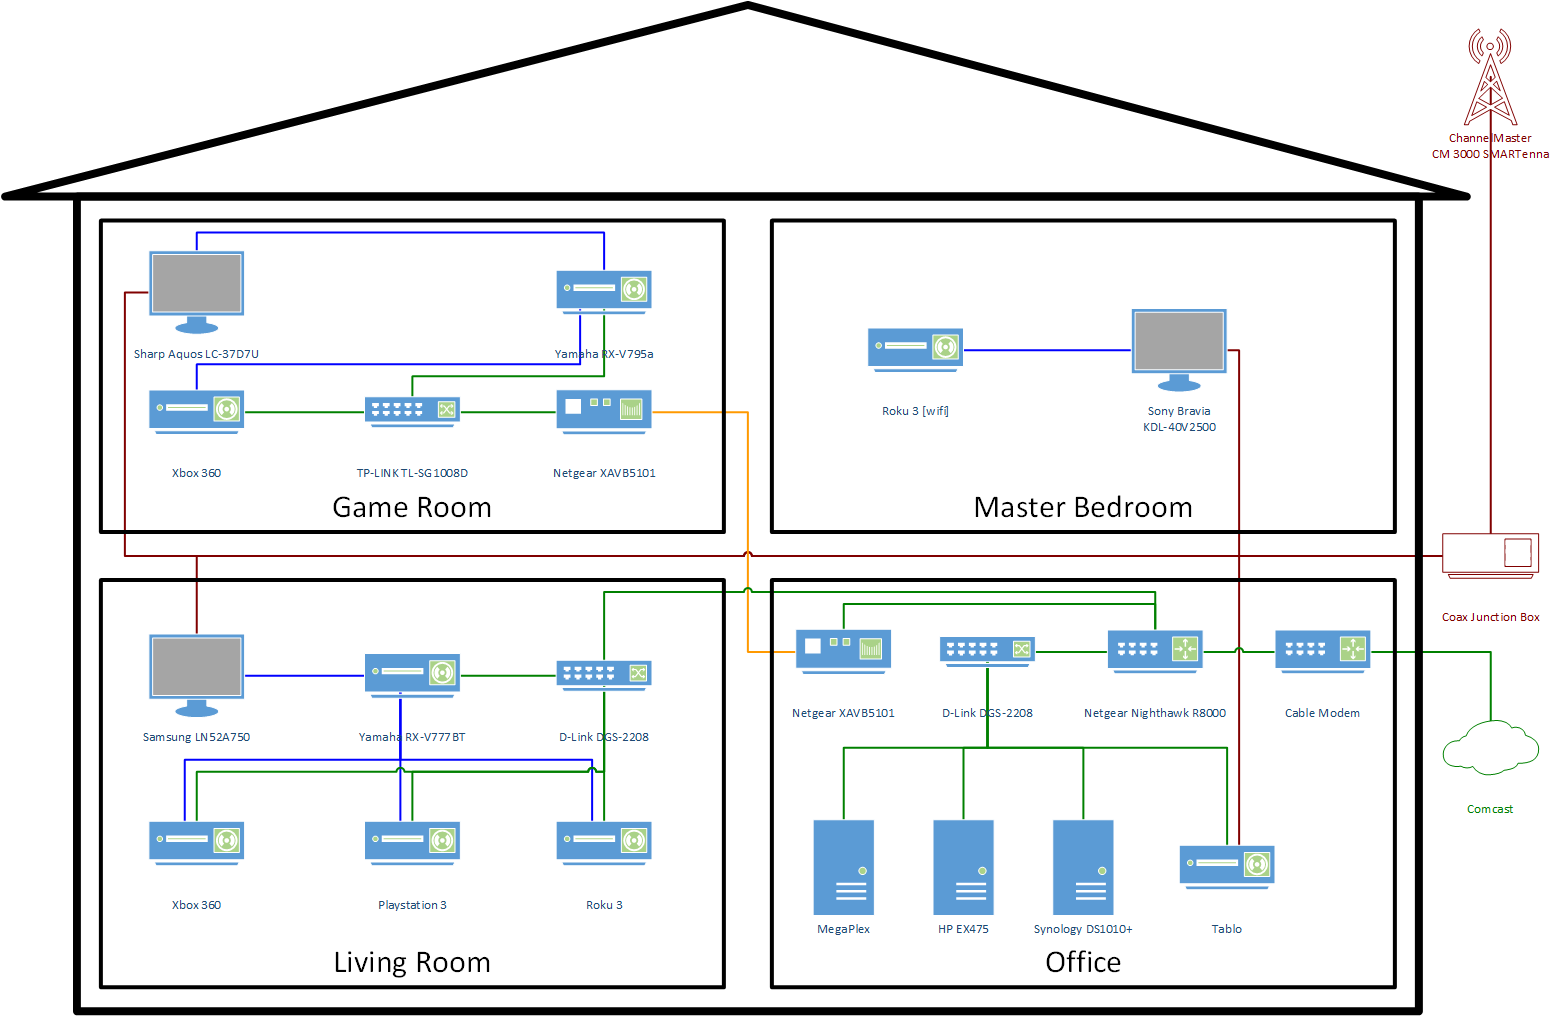
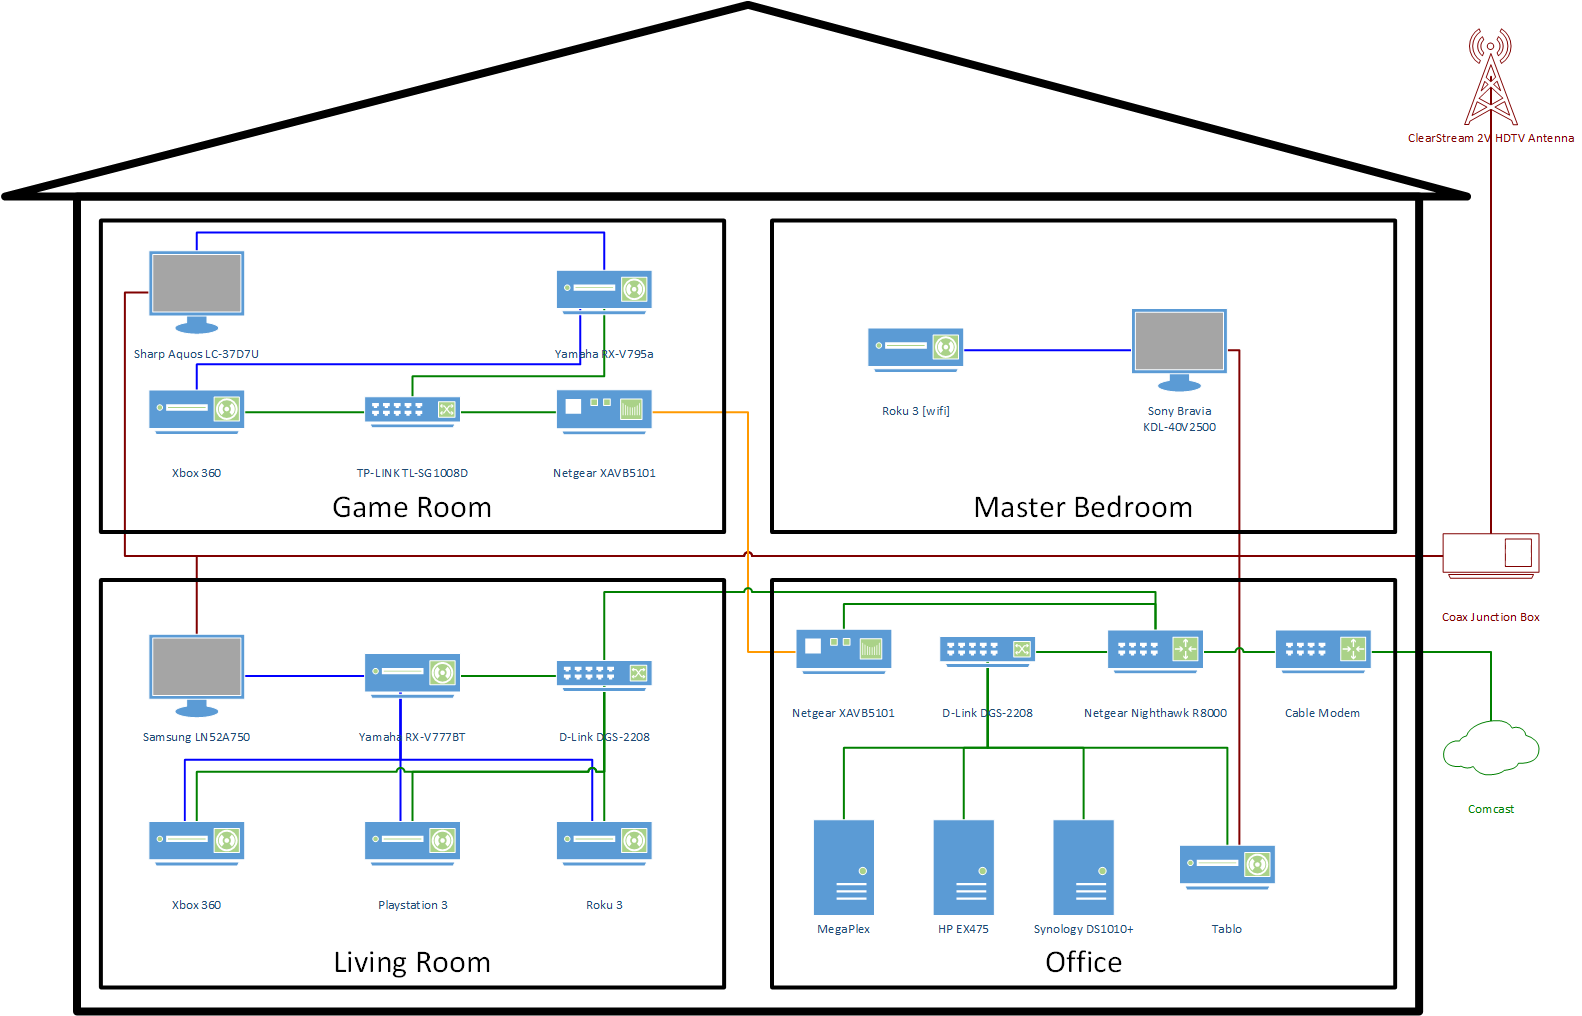
Updated documentation for the new antenna.

diff --git a/docs/plans/cuttingthecable.rst b/docs/plans/cuttingthecable.rst
@@ -48,13 +48,15 @@ There's a junction box on the side of the house where the Comcast cable feed con
 
 The initial plan doesn't include an amplifier at the antenna but may need to be put in later.
 
-Result: ChannelMaster CM 3000 SMARTenna
-~~~~~~~~~~~~~~~~~~~~~~~~~~~~~~~~~~~~~~~
-The flat antennas look nice, like a small satellite. :doc:`The ChannelMaster CM 3000 SMARTenna seems as good as any for the requirements we have. <../hardware/network/cm3000>` A good balance of cost and power.
+Initial Result: ChannelMaster CM 3000 SMARTenna
+~~~~~~~~~~~~~~~~~~~~~~~~~~~~~~~~~~~~~~~~~~~~~~~
+The flat antennas look nice, like a small satellite. :doc:`The ChannelMaster CM 3000 SMARTenna seems as good as any for the requirements we have. <../hardware/deprecated/cm3000>` A good balance of cost and power.
 
 Antenna Follow-Up
 ~~~~~~~~~~~~~~~~~
-After installing a ChannelMaster CM 3000 SMARTenna, I found that the signal in our area is pretty good on clear days but inteference appears in any poor weather conditions. Other folks in my general area have had lots of luck with this and smaller antennas, but I think living somewhat close to an airport adds to my interference levels. I may try a larger antenna in the attic to see if I can remedy the situation.
+After installing a ChannelMaster CM 3000 SMARTenna, I found that the signal in our area is pretty good on clear days but inteference appears in any poor weather conditions. Other folks in my general area have had lots of luck with this and smaller antennas, but I think living somewhat close to an airport adds to my interference levels.
+
+I ended up switching to a :doc:`ClearStream 2V HDTV antenna <../hardware/network/clearstream2v>` mounted in my attic and it produces a much better signal.
 
 Home Network
 ------------

diff --git a/docs/hardware/network/clearstream2v.rst b/docs/hardware/network/clearstream2v.rst
@@ -1,0 +1,11 @@
+===========================
+ClearStream 2V HDTV Antenna
+===========================
+
+I picked up the `ClearStream 2V Indoor/Outdoor HDTV Antenna with Mount - 60 Mile Range <http://www.amazon.com/dp/B007RH5GZI?tag=mhsvortex>`_ after my :doc:`my plan to cut the cable <../../plans/cuttingthecable>` when I found that the original antenna I purchased, the :doc:`ChannelMaster CM 3000 SMARTenna <../deprecated/cm3000>`, didn't work too well for me in inclement weather.
+
+While the CM 3000 originally showed me channel scan signal ratings of between three and five (out of five) on the :doc:`Tablo <../server/tablo>`, the ClearStream 2V is all fives for every channel in my area even in the rain.
+
+I mounted the antenna in the attic above my garage. It appears upside down compared to the pictures on Amazon, but it doesn't really matter and was the only way I could get it to fit given the mounting hardware had to be fitted to the roof.
+
+.. image:: clearstream2v.jpg

diff --git a/docs/hardware/deprecated/cm3000.rst b/docs/hardware/deprecated/cm3000.rst
@@ -8,4 +8,4 @@ It was very easy to mount and it's paintable, so it blends right in. Here's a ph
 
 .. image:: cm3000.jpg
 
-So far it has worked fairly well, though when the weather gets bad the reception gets a little flakey. I may consider upgrading to a larger antenna in the future.
+While it worked well in the summary, when the weather got bad the reception got a little flakey. At a certain point I started missing programs due to bad reception so I upgraded to the :doc:`ClearStream 2V HDTV Antenna <../network/clearstream2v>`.

diff --git a/docs/hardware/deprecated/index.rst b/docs/hardware/deprecated/index.rst
@@ -10,3 +10,4 @@ As my system grows and changes, I switch up the hardware driving the system. Onc
     dap1522.rst
     onkyotxsr875.rst
     dellstudiohybrid.rst
+    cm3000.rst

diff --git a/docs/hardware/network/index.rst b/docs/hardware/network/index.rst
@@ -6,4 +6,4 @@ Network Infrastructure
     netgearr8000.rst
     powerline.rst
     switches.rst
-    cm3000.rst
+    clearstream2v.rst
